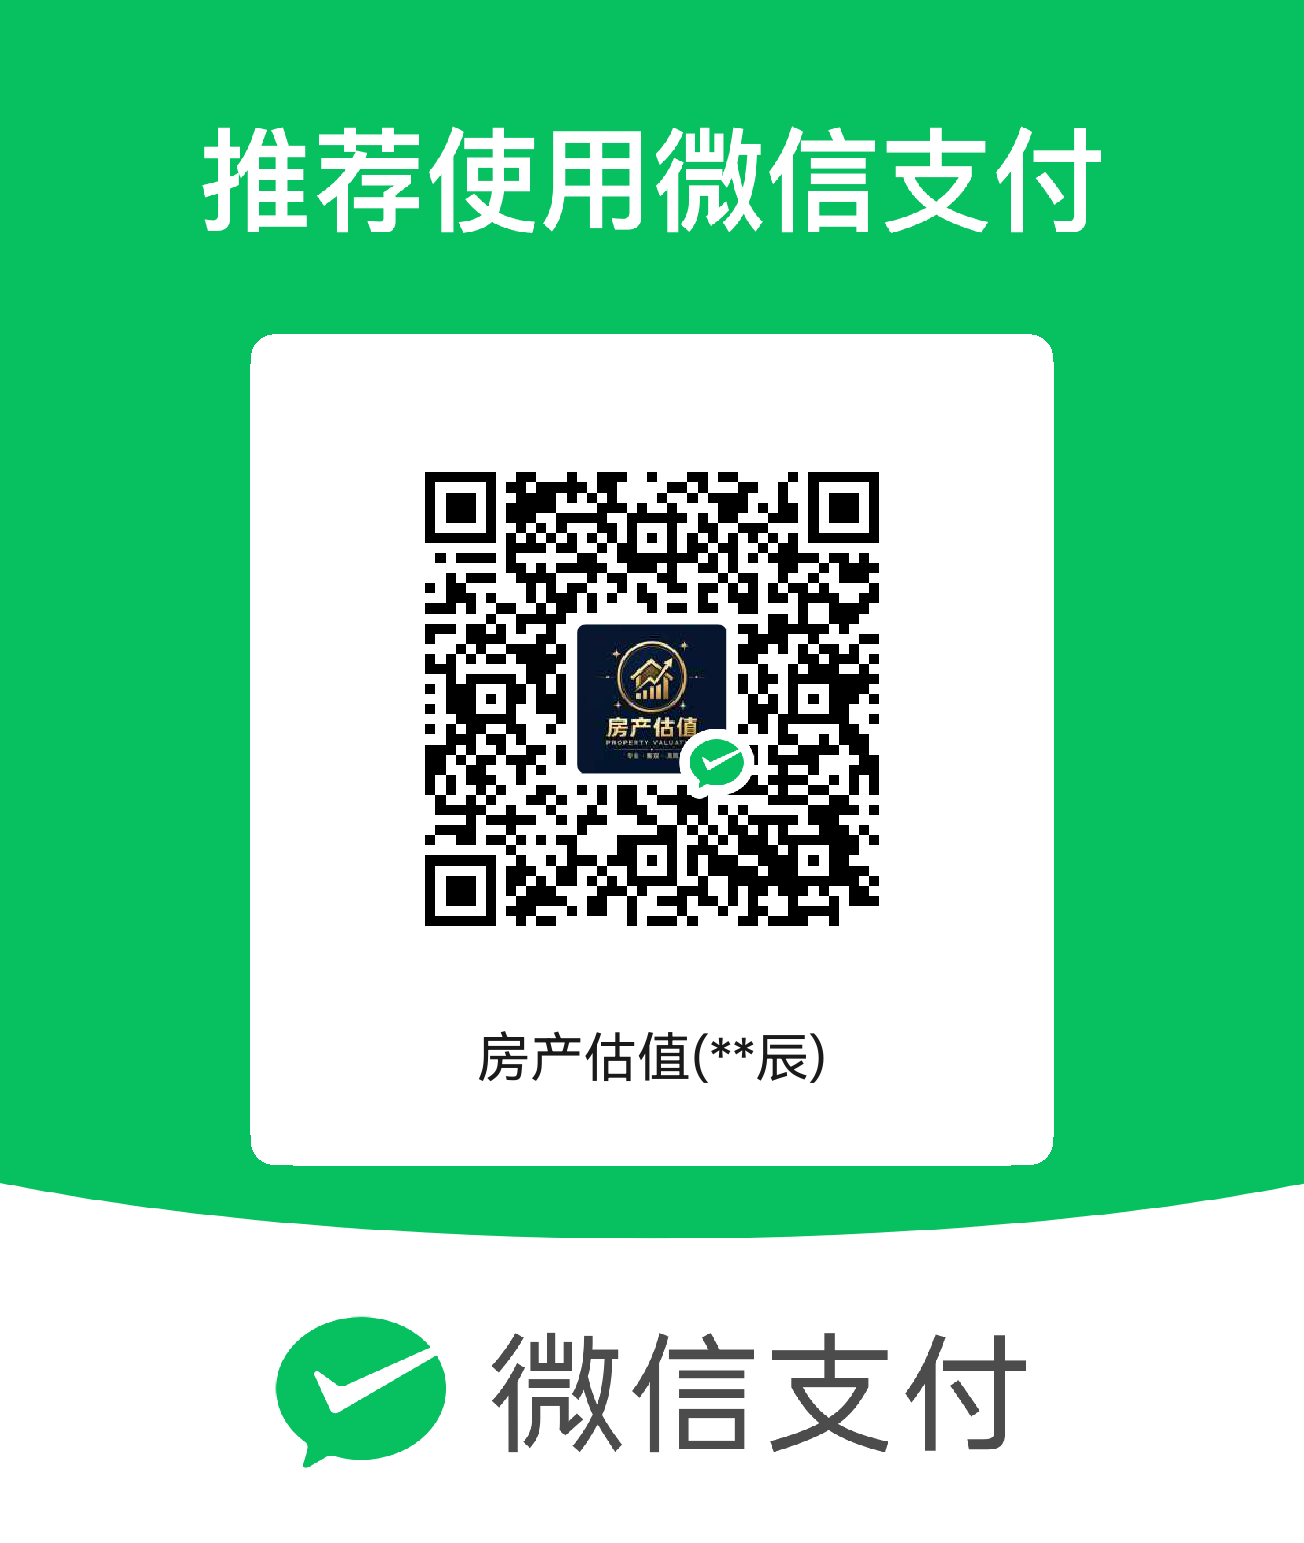
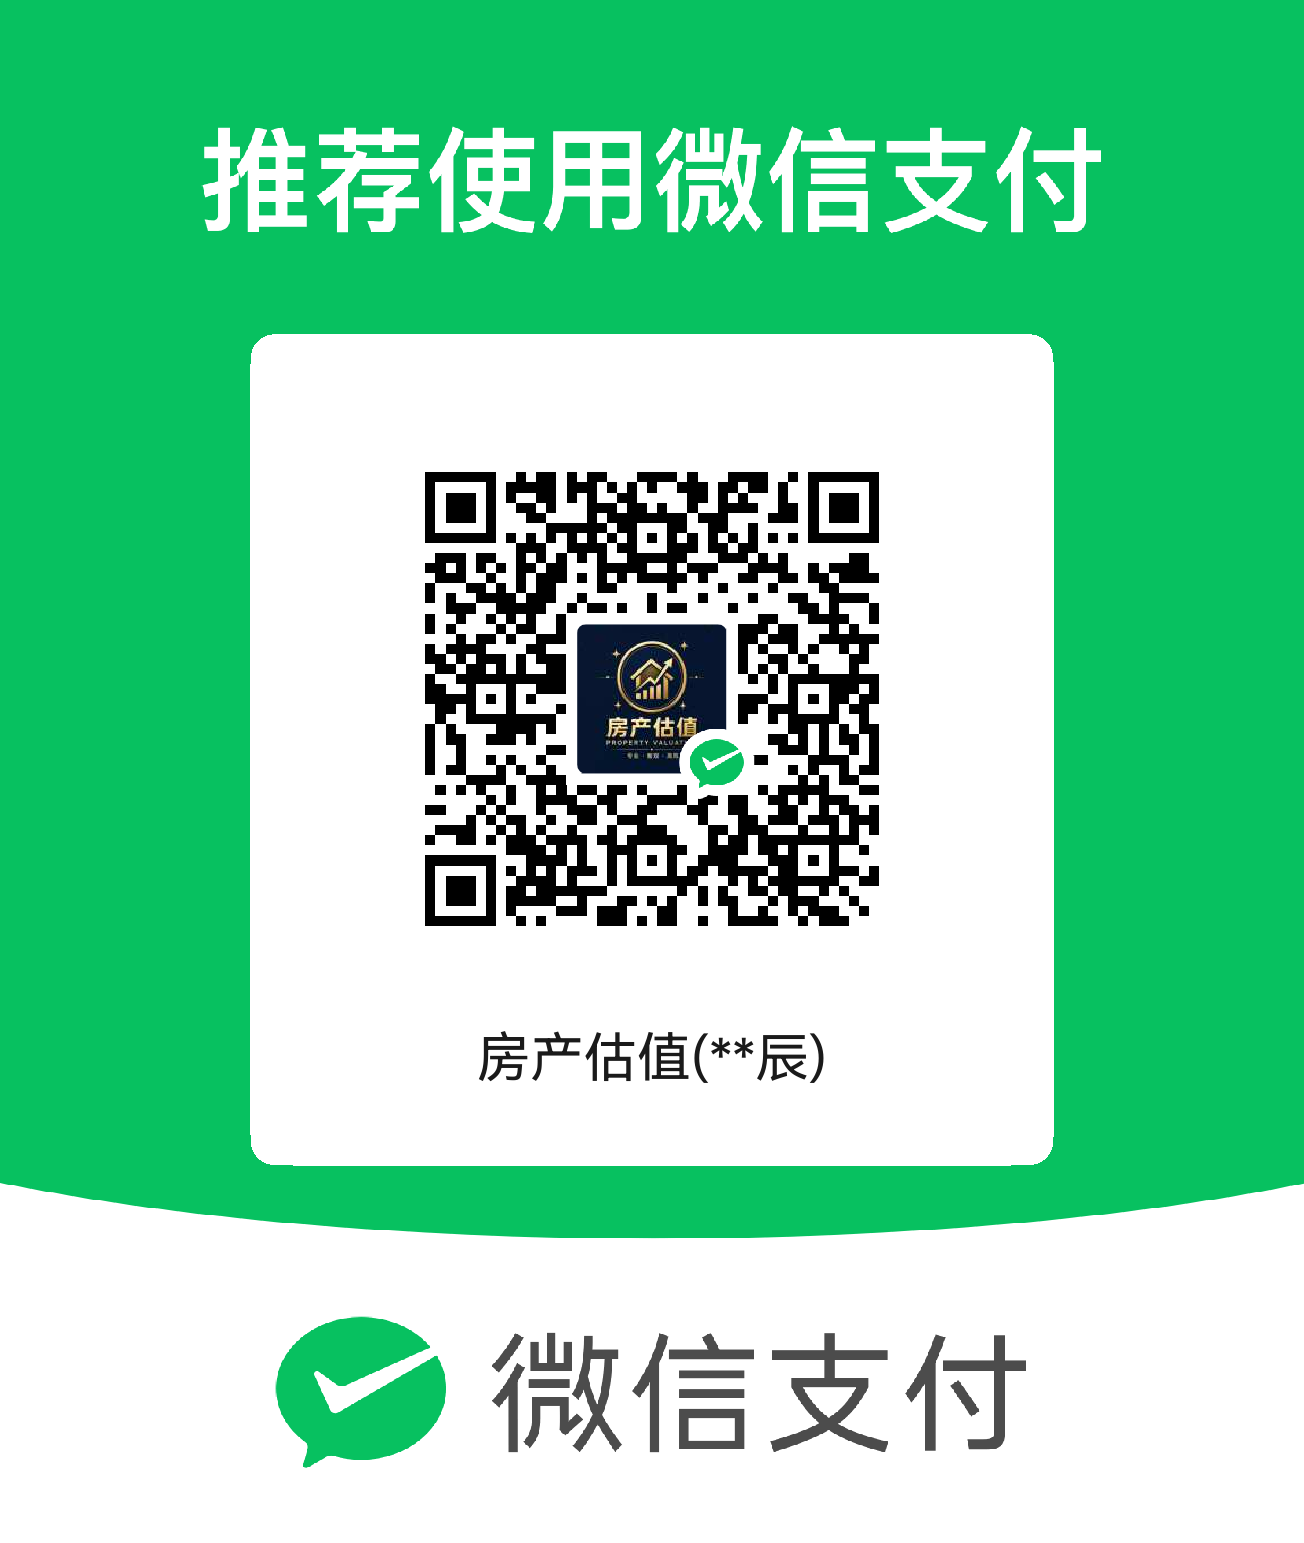
feat: 收费仅支持微信收款，移除支付宝链路并替换个人收款码
- payments.py 移除支付宝集成，仅保留微信支付 v3（下单/回调验签）
- 删除支付宝回调路由与静态收款码，收款码替换为新微信个人码
- 支付页仅保留微信支付选项
- 订单存储支持 ORDERS_BACKEND=json|sqlite 双后端

Changed region(s): [[0.3067, 0.28, 0.6748, 0.6222], [0.4601, 0.4355, 0.5215, 0.4666]]

diff --git a/payments.py b/payments.py
@@ -1,10 +1,10 @@
-"""微信支付 v3 + 支付宝 官方支付集成（含异步回调验签）。
+"""微信支付 v3 官方支付集成（含异步回调验签）。仅支持微信收款。
 
 设计原则
 --------
 * 所有密钥从环境变量读取，绝不硬编码。
 * 缺配置时各函数返回 None 并打点标记，调用方据此回退到「演示模式」。
-* 回调验签是「逻辑检验」的核心：只有微信/支付宝真正到账并带正确签名，
+* 回调验签是「逻辑检验」的核心：只有微信真正到账并带正确签名，
   才会把订单标记为已支付，报告才会解锁。
 """
 
@@ -31,15 +31,9 @@ WX_API_V3_KEY = os.environ.get("WXPAY_API_V3_KEY", "").strip()
 WX_MCH_SERIAL = os.environ.get("WXPAY_MCH_SERIAL", "").strip()
 WX_PRIVATE_KEY = os.environ.get("WXPAY_PRIVATE_KEY", "").strip()
 
-ALI_APP_ID = os.environ.get("ALIPAY_APP_ID", "").strip()
-ALI_PRIVATE_KEY = os.environ.get("ALIPAY_PRIVATE_KEY", "").strip()
-ALI_PUBLIC_KEY = os.environ.get("ALIPAY_PUBLIC_KEY", "").strip()
-
 WX_CONFIGURED = all([WX_MCH_ID, WX_APP_ID, WX_API_V3_KEY, WX_MCH_SERIAL, WX_PRIVATE_KEY])
-ALI_CONFIGURED = all([ALI_APP_ID, ALI_PRIVATE_KEY, ALI_PUBLIC_KEY])
 
 WX_GATEWAY = "https://api.mch.weixin.qq.com"
-ALI_GATEWAY = "https://openapi.alipay.com/gateway.do"
 
 
 # ---------------------------------------------------------------------------
@@ -67,10 +61,23 @@ def _rsa_sign(private_key, data: bytes) -> str:
     return base64.b64encode(sig).decode("ascii")
 
 
-def _sorted_kv(params: dict):
-    """支付宝签名：按 key 升序拼接为 key=value&key=value（不含 sign）。"""
-    items = sorted((k, str(v)) for k, v in params.items() if k not in ("sign", "sign_type") and v != "" and v is not None)
-    return "&".join(f"{k}={v}" for k, v in items)
+def _build_auth(method: str, url_path: str, body_str: str = ""):
+    """构造微信支付 v3 请求签名头（Authorization）。
+
+    返回形如 `WECHATPAY2-SHA256-RSA2048 mchid=...` 的字符串；私钥缺失返回 None。
+    下单与拉取平台证书共用，避免重复拼装。
+    """
+    priv = _load_priv(WX_PRIVATE_KEY)
+    if priv is None:
+        return None
+    ts = str(int(time.time()))
+    nonce = base64.b64encode(os.urandom(16)).decode("ascii")
+    message = f"{method}\n{url_path}\n{ts}\n{nonce}\n{body_str}\n"
+    signature = _rsa_sign(priv, message.encode("utf-8"))
+    return (
+        f'WECHATPAY2-SHA256-RSA2048 mchid="{WX_MCH_ID}",'
+        f'nonce_str="{nonce}",signature="{signature}",timestamp="{ts}",serial_no="{WX_MCH_SERIAL}"'
+    )
 
 
 # ---------------------------------------------------------------------------
@@ -93,15 +100,10 @@ def create_wechat_native(out_trade_no: str, total_fen: int, description: str, no
         "amount": {"total": int(total_fen), "currency": "CNY"},
     }
     body_str = json.dumps(body, ensure_ascii=False, separators=(",", ":"))
-    ts = str(int(time.time()))
-    nonce = base64.b64encode(os.urandom(16)).decode("ascii")
     url_path = "/v3/pay/transactions/native"
-    message = f"POST\n{url_path}\n{ts}\n{nonce}\n{body_str}\n"
-    signature = _rsa_sign(priv, message.encode("utf-8"))
-    auth = (
-        f'WECHATPAY2-SHA256-RSA2048 mchid="{WX_MCH_ID}",'
-        f'nonce_str="{nonce}",signature="{signature}",timestamp="{ts}",serial_no="{WX_MCH_SERIAL}"'
-    )
+    auth = _build_auth("POST", url_path, body_str)
+    if auth is None:
+        return None
     headers = {
         "Authorization": auth,
         "Content-Type": "application/json",
@@ -136,16 +138,92 @@ def _wx_decrypt_resource(resource: dict):
         return None
 
 
-def verify_wechat_notify(headers: dict, body_str: str):
-    """验证微信支付回调，成功返回 (out_trade_no, paid_bool)，失败返回 (None, False)。
+# 微信平台证书缓存：serial_no -> 证书 PEM，1 小时刷新一次
+_PLATFORM_CERTS = {}
+_PLATFORM_CERTS_TS = 0
 
-    说明：解密成功 + trade_state==SUCCESS 即视为真实到账（密文只有微信与商户
-    持有 APIv3 密钥才能解开）。签名验证使用微信平台证书，这里做 best-effort：
-    验证通过则更可信，失败时记录但不阻断（避免误伤真实回调）。
+
+def _fetch_platform_certs():
+    """拉取微信平台证书（用于回调签名验签）。返回 {serial: pem}；失败返回已有缓存或 {}。"""
+    global _PLATFORM_CERTS, _PLATFORM_CERTS_TS
+    now = time.time()
+    if _PLATFORM_CERTS and now - _PLATFORM_CERTS_TS < 3600:
+        return _PLATFORM_CERTS
+    if not WX_CONFIGURED:
+        return _PLATFORM_CERTS
+    auth = _build_auth("GET", "/v3/certificates", "")
+    if auth is None:
+        return _PLATFORM_CERTS
+    try:
+        resp = requests.get(
+            f"{WX_GATEWAY}/v3/certificates",
+            headers={"Authorization": auth, "Accept": "application/json",
+                     "User-Agent": "realestate-pay/1.0"},
+            timeout=10,
+        )
+        if resp.status_code != 200:
+            logger.warning("微信平台证书拉取失败 %s: %s", resp.status_code, resp.text[:300])
+            return _PLATFORM_CERTS
+        data = resp.json()
+        certs = {}
+        for item in data.get("data", []):
+            serial = item.get("serial_no")
+            enc = item.get("encrypt_certificate", {})
+            plain = _wx_decrypt_resource(enc)
+            if serial and plain and plain.get("certificate"):
+                certs[serial] = plain["certificate"]
+        if certs:
+            _PLATFORM_CERTS = certs
+            _PLATFORM_CERTS_TS = now
+        return _PLATFORM_CERTS
+    except Exception as e:  # noqa: BLE001
+        logger.warning("微信平台证书拉取异常: %s", e)
+        return _PLATFORM_CERTS
+
+
+def _verify_signature(headers: dict, body) -> bool:
+    """校验微信回调签名头（平台证书 RSA 验签）。headers 大小写不敏感。"""
+    h = {k.lower(): v for k, v in headers.items()}
+    ts = h.get("wechatpay-timestamp")
+    nonce = h.get("wechatpay-nonce")
+    sig = h.get("wechatpay-signature")
+    serial = h.get("wechatpay-serial")
+    if not (ts and nonce and sig and serial):
+        logger.warning("微信回调缺少签名头")
+        return False
+    body_str = body.decode("utf-8") if isinstance(body, bytes) else body
+    message = f"{ts}\n{nonce}\n{body_str}\n"
+    certs = _fetch_platform_certs()
+    cert_pem = certs.get(serial)
+    if not cert_pem:
+        logger.warning("微信回调平台证书未命中 serial=%s", serial)
+        return False
+    try:
+        from cryptography.hazmat.primitives.serialization import load_pem_x509_certificate
+        from cryptography.hazmat.primitives.asymmetric import padding as asym_padding
+        cert = load_pem_x509_certificate(cert_pem.encode("utf-8"))
+        cert.public_key().verify(
+            base64.b64decode(sig), message.encode("utf-8"),
+            asym_padding.PKCS1v15(), hashes.SHA256(),
+        )
+        return True
+    except Exception as e:  # noqa: BLE001
+        logger.warning("微信回调签名验签失败: %s", e)
+        return False
+
+
+def verify_wechat_notify(headers: dict, body):
+    """验证微信支付回调：先验签（平台证书），再解密 resource 取交易状态。
+
+    成功返回 (out_trade_no, paid_bool)，失败返回 (None, False)。
+    仅在 WX_CONFIGURED 时启用；演示模式（未配置）不会收到官方回调，直接返回 (None, False)。
     """
     if not WX_CONFIGURED:
         return None, False
     try:
+        if not _verify_signature(headers, body):
+            return None, False
+        body_str = body.decode("utf-8") if isinstance(body, bytes) else body
         payload = json.loads(body_str)
         resource = payload.get("resource", {})
         plain = _wx_decrypt_resource(resource)
@@ -160,72 +238,3 @@ def verify_wechat_notify(headers: dict, body_str: str):
         return None, False
 
 
-# ---------------------------------------------------------------------------
-# 支付宝
-# ---------------------------------------------------------------------------
-def create_alipay_precreate(out_trade_no: str, total_yuan: str, subject: str):
-    """创建支付宝面对面扫码单，返回 qr_code 字符串；未配置/失败返回 None。"""
-    if not ALI_CONFIGURED:
-        return None
-    priv = _load_priv(ALI_PRIVATE_KEY)
-    if priv is None:
-        return None
-
-    biz = json.dumps(
-        {"out_trade_no": out_trade_no, "total_amount": total_yuan, "subject": subject},
-        ensure_ascii=False, separators=(",", ":"),
-    )
-    params = {
-        "app_id": ALI_APP_ID,
-        "method": "alipay.trade.precreate",
-        "charset": "utf-8",
-        "sign_type": "RSA2",
-        "timestamp": time.strftime("%Y-%m-%d %H:%M:%S", time.localtime()),
-        "version": "1.0",
-        "biz_content": biz,
-    }
-    params["sign"] = _rsa_sign(priv, _sorted_kv(params).encode("utf-8"))
-    try:
-        resp = requests.post(ALI_GATEWAY, data=params, timeout=10)
-        data = resp.json()
-        resp_node = data.get("alipay_trade_precreate_response", {})
-        if resp_node.get("code") == "10000":
-            return resp_node.get("qr_code")
-        logger.warning("支付宝下单失败: %s", json.dumps(resp_node, ensure_ascii=False)[:300])
-        return None
-    except Exception as e:  # noqa: BLE001
-        logger.warning("支付宝下单异常: %s", e)
-        return None
-
-
-def verify_alipay_notify(form: dict):
-    """验证支付宝异步通知，成功返回 (out_trade_no, paid_bool)。
-
-    校验项：
-      1. 签名（RSA2，使用支付宝公钥）
-      2. trade_status 为 TRADE_SUCCESS / TRADE_FINISHED
-    """
-    if not ALI_CONFIGURED:
-        return None, False
-    try:
-        sign = form.get("sign")
-        if not sign:
-            return None, False
-        raw = _sorted_kv(form).encode("utf-8")
-        pub = _normalize_pem(ALI_PUBLIC_KEY)
-        from cryptography.hazmat.primitives.serialization import load_pem_public_key
-        public_key = load_pem_public_key(pub)
-        ok = public_key.verify(
-            base64.b64decode(sign), raw, asym_padding.PKCS1v15(), hashes.SHA256()
-        ) is None
-        if not ok:
-            logger.warning("支付宝回调签名校验失败")
-            return None, False
-        out_trade_no = form.get("out_trade_no")
-        status = form.get("trade_status")
-        paid = status in ("TRADE_SUCCESS", "TRADE_FINISHED")
-        logger.info("支付宝回调 out_trade_no=%s trade_status=%s", out_trade_no, status)
-        return out_trade_no, paid
-    except Exception as e:  # noqa: BLE001
-        logger.warning("支付宝回调校验异常: %s", e)
-        return None, False

diff --git a/repository.py b/repository.py
@@ -142,7 +142,7 @@ def get_repository(filename="mock_listings.json"):
 
 
 class OrderStore:
-    """服务端订单存储 —— 供微信/支付宝支付回调按 out_trade_no 查询订单。
+    """服务端订单存储 —— 供微信支付回调按 out_trade_no 查询订单。
 
     注意：当前用 JSON 文件实现（与 DATA_BACKEND=json 一致）。
     Render 等临时文件系统会在重启时清空，但支付回调通常在用户付款后数秒内到达，
@@ -195,12 +195,80 @@ class OrderStore:
             return o
 
 
+class SqliteOrderStore:
+    """订单存储 —— SQLite 后端，适合本地开发或挂载了持久盘的部署（Render 付费磁盘 / 容器卷）。
+
+    与 OrderStore 接口一致：每条订单整体以 JSON 存于 data 列，避免频繁改表结构。
+    注意：Render Free 实例文件系统仍是临时的，只有挂载持久磁盘（或改用外部数据库）
+    时 SQLite 才真正持久；否则行为与 JSON 版相同（部署即清空）。
+    """
+
+    def __init__(self, db_path="orders.db"):
+        self.db_path = db_path
+        self._lock = threading.Lock()
+        self._ensure_schema()
+
+    def _connect(self):
+        conn = sqlite3.connect(self.db_path)
+        conn.row_factory = sqlite3.Row
+        return conn
+
+    def _ensure_schema(self):
+        with self._connect() as conn:
+            conn.execute(
+                "CREATE TABLE IF NOT EXISTS orders (order_no TEXT PRIMARY KEY, data TEXT)"
+            )
+
+    def save(self, order):
+        with self._lock:
+            with self._connect() as conn:
+                conn.execute(
+                    "INSERT OR REPLACE INTO orders (order_no, data) VALUES (?, ?)",
+                    (order["order_no"], json.dumps(order, ensure_ascii=False)),
+                )
+
+    def get(self, order_no):
+        with self._lock:
+            with self._connect() as conn:
+                row = conn.execute(
+                    "SELECT data FROM orders WHERE order_no = ?", (order_no,)
+                ).fetchone()
+            return json.loads(row["data"]) if row else None
+
+    def all(self):
+        with self._lock:
+            with self._connect() as conn:
+                rows = conn.execute("SELECT data FROM orders ORDER BY order_no").fetchall()
+        return {json.loads(r["data"])["order_no"]: json.loads(r["data"]) for r in rows}
+
+    def update(self, order_no, **fields):
+        with self._lock:
+            with self._connect() as conn:
+                row = conn.execute(
+                    "SELECT data FROM orders WHERE order_no = ?", (order_no,)
+                ).fetchone()
+                if not row:
+                    return None
+                o = json.loads(row["data"])
+                o.update(fields)
+                conn.execute(
+                    "INSERT OR REPLACE INTO orders (order_no, data) VALUES (?, ?)",
+                    (order_no, json.dumps(o, ensure_ascii=False)),
+                )
+                return o
+
+
 _order_store = None
 
 
 def get_order_store():
     global _order_store
     if _order_store is None:
-        _order_store = OrderStore(path=os.environ.get("ORDERS_PATH", "orders.json"))
+        backend = os.environ.get("ORDERS_BACKEND", "json").strip().lower()
+        if backend == "sqlite":
+            path = os.environ.get("ORDERS_PATH", "orders.db")
+            _order_store = SqliteOrderStore(path=path)
+        else:
+            _order_store = OrderStore(path=os.environ.get("ORDERS_PATH", "orders.json"))
     return _order_store
 

diff --git a/app.py b/app.py
@@ -546,7 +546,6 @@ def valuate_report():
         "paid": False,
         "pay_method": None,
         "wx_code_url": None,
-        "ali_qr_code": None,
     }
     session["pending_valuation"] = order
     get_order_store().save(order)
@@ -617,9 +616,7 @@ def valuate_pay_confirm():
     if not order:
         return redirect("/valuate")
 
-    pay_method = request.form.get("pay_method", "wechat")
-    if pay_method not in ("wechat", "alipay"):
-        pay_method = "wechat"
+    pay_method = "wechat"
 
     # 套餐以服务端定义为准：前端只提交 key，价格不可被篡改
     plan = get_plan(request.form.get("plan") or order.get("plan"))
@@ -629,7 +626,7 @@ def valuate_pay_confirm():
     order["amount"] = plan["price"]
 
     store = get_order_store()
-    official = payments.WX_CONFIGURED or payments.ALI_CONFIGURED
+    official = payments.WX_CONFIGURED
 
     from datetime import datetime
 
@@ -679,7 +676,7 @@ def valuate_pay_status():
 @app.route("/valuate/pay/notify/wechat", methods=["POST"])
 def valuate_pay_notify_wechat():
     """微信支付异步回调：验签 + 标记订单已支付。"""
-    body = request.get_data(as_text=True)
+    body = request.get_data()
     out_trade_no, paid = payments.verify_wechat_notify(dict(request.headers), body)
     if out_trade_no and paid:
         from datetime import datetime
@@ -690,22 +687,6 @@ def valuate_pay_notify_wechat():
         logger.info("微信支付到账 - 单号: %s", out_trade_no)
         return jsonify({"code": "SUCCESS", "message": "成功"})
     return jsonify({"code": "FAIL", "message": "验签失败"}), 400
-
-
-@app.route("/valuate/pay/notify/alipay", methods=["POST"])
-def valuate_pay_notify_alipay():
-    """支付宝异步回调：验签 + 标记订单已支付。"""
-    form = request.form.to_dict()
-    out_trade_no, paid = payments.verify_alipay_notify(form)
-    if out_trade_no and paid:
-        from datetime import datetime
-        get_order_store().update(
-            out_trade_no, paid=True, pay_method="alipay",
-            paid_at=datetime.now().strftime("%Y-%m-%d %H:%M:%S"),
-        )
-        logger.info("支付宝支付到账 - 单号: %s", out_trade_no)
-        return "success"
-    return "failure", 400
 
 
 @app.route("/valuate/result")
